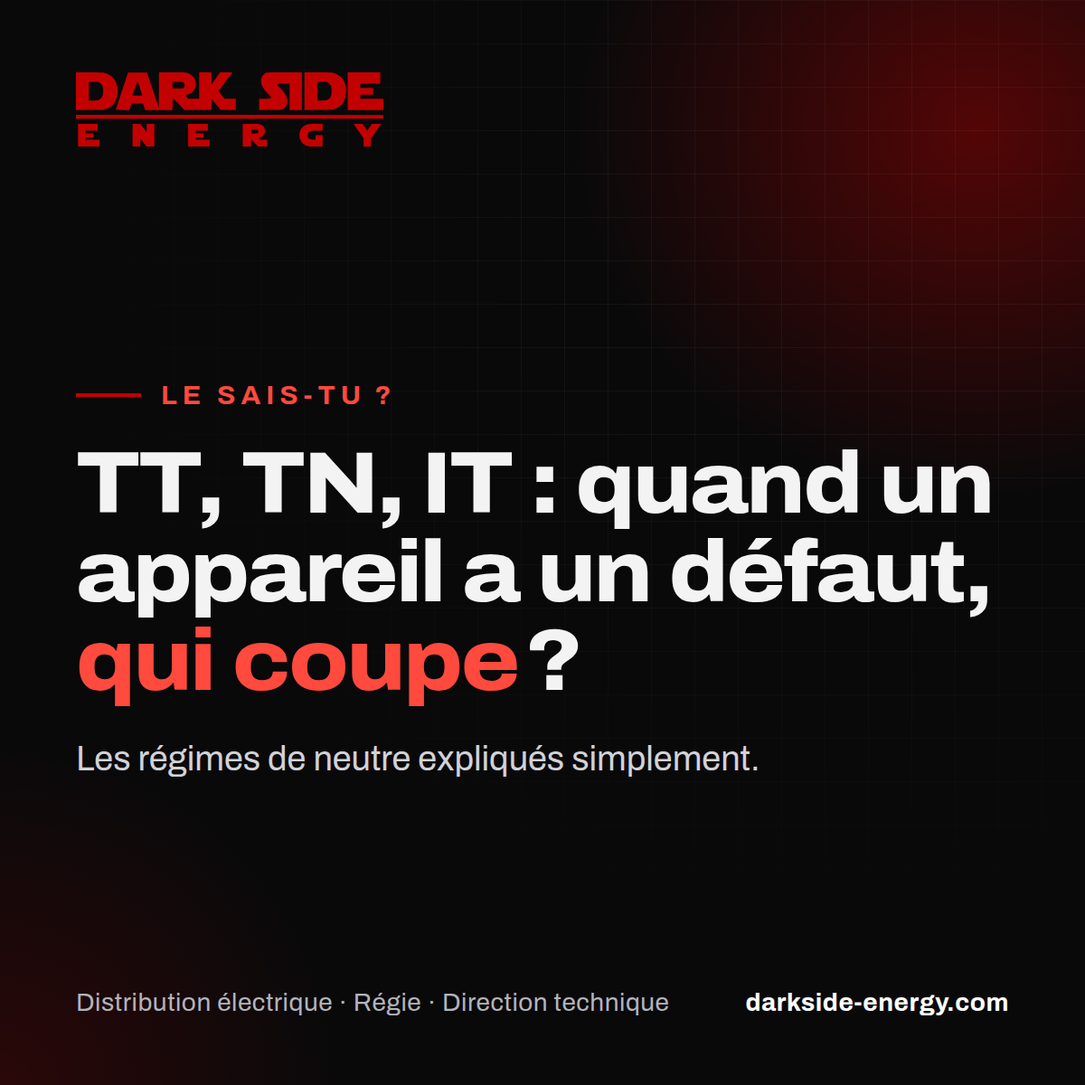
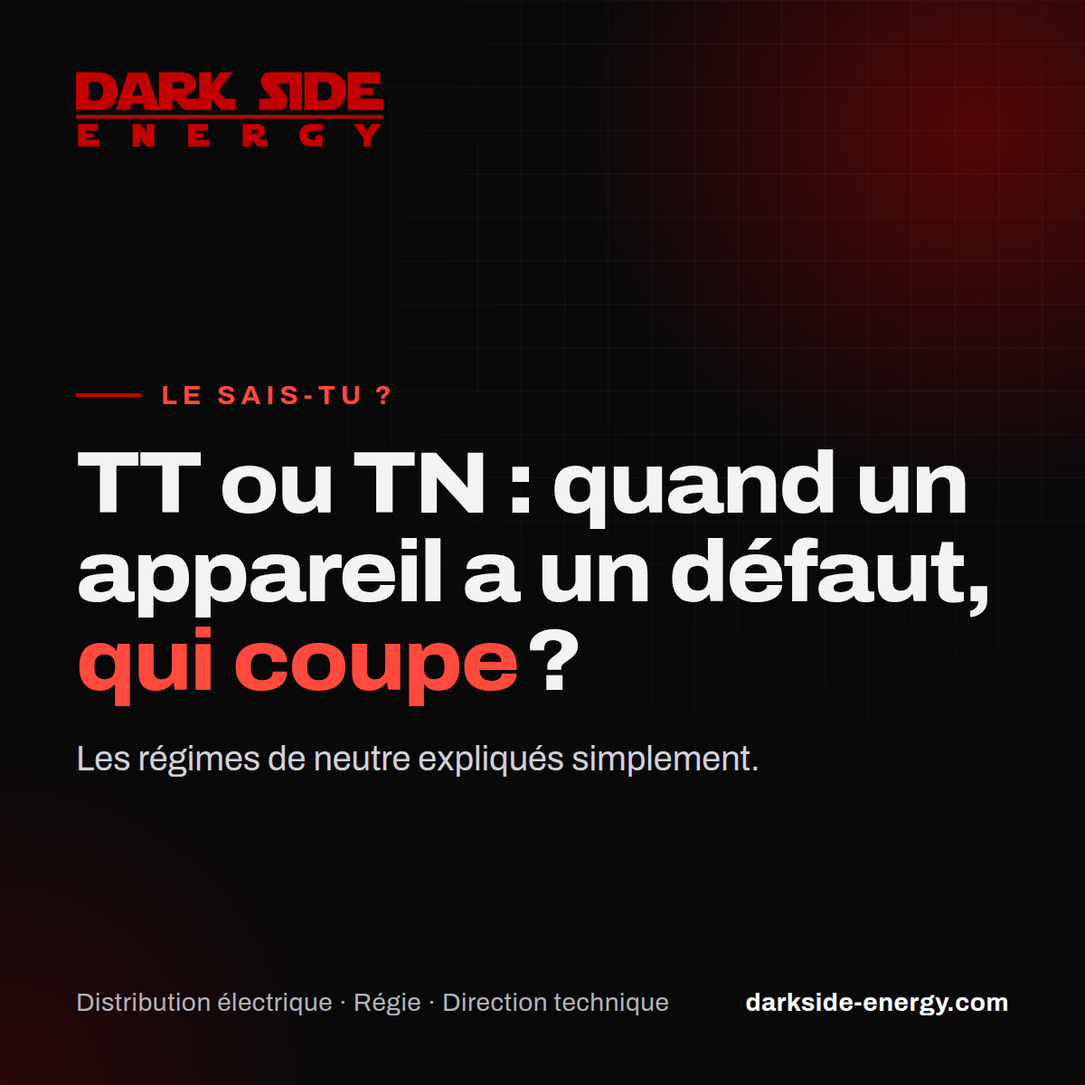
Article régimes de neutre : IT retiré, cas des ERP ajouté (vérifié par Pipo et Mario)
- IT retiré à la demande de Damien (schéma non employé en événementiel), remplacé par une
  phrase de mention ; titre « TT ou TN », visuel, tableau, citation, résumé et textes
  LinkedIn et Facebook mis à jour.
- Partie événement : grand lieu avec son propre transformateur, TN parfois TN-C sur les gros
  câbles, PEN séparé avant les tableaux protégés par différentiels ; salles d'exposition
  (ERP de type T, art. T 35 § 5 et T 36 § 4) : terre de chaque tableau de stand reliée au
  réseau de protection du bâtiment, piquets individuels interdits ; nouvelle source
  (transformateur à enroulements séparés ou groupe) pour changer de schéma.
- « Souvent en TN-C » non repris : aucune source ne l'étaye.
- Valeurs vérifiées complétées.

Claude-Session: https://claude.ai/code/session_01KYAdwUkupg8RtwwquDNbke

Changed region(s): [[0.185, 0.4008, 0.925, 0.4933]]

diff --git a/editorial/a-paraitre/2026-10-20-regimes-de-neutre/fr.html b/editorial/a-paraitre/2026-10-20-regimes-de-neutre/fr.html
@@ -4,8 +4,8 @@
 <!--page
 {
   "path": "news/regimes-de-neutre/",
-  "title": "TT, TN, IT : les régimes de neutre expliqués simplement",
-  "description": "Que se passe-t-il quand un appareil a un défaut, et qui coupe ? Les régimes de neutre TT, TN et IT expliqués simplement, avec des schémas animés.",
+  "title": "TT ou TN : les régimes de neutre expliqués simplement",
+  "description": "Que se passe-t-il quand un appareil a un défaut, et qui coupe ? Les régimes de neutre TT et TN expliqués simplement, avec des schémas animés, et ce qui change sur un événement.",
   "nav": "news",
   "type": "article",
   "article": {
@@ -20,7 +20,7 @@
       "news/"
     ],
     [
-      "TT, TN, IT : les régimes de neutre expliqués simplement"
+      "TT ou TN : les régimes de neutre expliqués simplement"
     ]
   ],
   "updated": "2026-10-20"
@@ -40,7 +40,7 @@
       <!-- breadcrumb:start -->
 <!-- breadcrumb:end -->
       <p class="eyebrow">Le sais-tu ?</p>
-      <h1>TT, TN, IT : les régimes de neutre expliqués simplement</h1>
+      <h1>TT ou TN : les régimes de neutre expliqués simplement</h1>
       <p class="post-meta"><time datetime="2026-10-20">20 octobre 2026</time><span>4 min de lecture</span></p>
     </div>
   </section>
@@ -51,7 +51,7 @@
         <p class="eyebrow">À retenir</p>
         <ul class="check-list">
           <li>Le régime de neutre dit comment le neutre de la source et les masses des appareils sont reliés à la terre.</li>
-          <li>Il décide de ce qui coupe en cas de défaut d'isolement : le différentiel en TT ; le disjoncteur ou le fusible en TN, si le courant de défaut est assez fort ; en IT, en principe rien au premier défaut, une alarme prévient.</li>
+          <li>Il décide de ce qui coupe en cas de défaut d'isolement : le différentiel en TT ; le disjoncteur ou le fusible en TN, si le courant de défaut est assez fort.</li>
           <li>Sur une installation temporaire, les différentiels 30 mA sont obligatoires quel que soit le schéma, et le neutre (N) reste séparé du conducteur de protection (PE) : pas de PEN dans les câbles souples.</li>
         </ul>
       </aside>
@@ -63,6 +63,7 @@
 <li><strong>La première</strong> concerne le neutre de la source, transformateur ou groupe électrogène : <strong>T</strong>, relié directement à la terre ; <strong>I</strong>, isolé de la terre ou relié par une impédance élevée.</li>
 <li><strong>La seconde</strong> concerne les masses des appareils : <strong>T</strong>, reliées à une <a href="../../lexique/#prise-de-terre">prise de terre</a> ; <strong>N</strong>, reliées au neutre de la source par le conducteur de protection (PE), le conducteur vert et jaune.</li>
 </ul>
+<p>Un troisième schéma, l'IT, à neutre isolé, sert là où une coupure serait grave, comme dans les blocs opératoires ; nous ne l'employons pas en événementiel.</p>
 <h2>TT : la terre ramène le courant, le différentiel coupe</h2>
 <figure class="slt">
 <svg class="sld" viewBox="0 0 400 250" role="img" aria-labelledby="slt-tt-t slt-tt-d">
@@ -134,63 +135,22 @@
 <li><strong>TN-S</strong> : neutre et conducteur de protection séparés.</li>
 <li><strong>TN-C</strong> : confondus en un seul conducteur, le PEN, admis seulement en installation fixe, à partir de 10 mm² en cuivre (16 mm² en aluminium), interdit dans les locaux à risque d'incendie ou d'explosion, et incompatible avec un différentiel.</li>
 </ul>
-<h2>IT : au premier défaut, en principe, rien ne coupe</h2>
-<figure class="slt">
-<svg class="sld" viewBox="0 0 400 250" role="img" aria-labelledby="slt-it-t slt-it-d">
-<title id="slt-it-t">Schéma IT</title>
-<desc id="slt-it-d">Un défaut relie la phase à la masse de l'appareil. Le neutre de la source n'est pas relié directement à la terre : le faible courant de défaut revient par les capacités du réseau par rapport à la terre (C). Le contrôleur permanent d'isolement, branché entre le réseau et la terre, détecte le défaut et donne l'alarme. En principe, l'installation reste en service.</desc>
-<text class="name" x="14" y="24">IT</text>
-<rect class="node node--hot" x="12" y="40" width="88" height="86" rx="4"/>
-<text class="lbl" x="56" y="78" text-anchor="middle">SOURCE</text>
-<text class="lbl lbl--sm" x="56" y="94" text-anchor="middle">transfo</text>
-<text class="lbl lbl--sm" x="56" y="106" text-anchor="middle">ou groupe</text>
-<path class="wire" d="M100 56 H356 M100 110 H330 M330 56 V72 M330 94 V110"/>
-<text class="lbl lbl--sm" x="108" y="50">PHASE</text>
-<text class="lbl lbl--sm" x="230" y="104">NEUTRE</text>
-<rect class="node" x="290" y="40" width="90" height="86" rx="4"/>
-<text class="lbl lbl--sm" x="335" y="34" text-anchor="middle">APPAREIL</text>
-<rect class="sym" x="322" y="72" width="16" height="22" rx="2"/>
-<text class="lbl lbl--sm" x="335" y="119" text-anchor="middle">masse</text>
-<path class="spark" d="M356 56 L364 64 L358 67 L370 75 L380 80"/>
-<rect class="node" x="182" y="44" width="40" height="78" rx="4"/>
-<text class="lbl" x="202" y="88" text-anchor="middle">DISJ.</text>
-<text class="lbl lbl--sm" x="202" y="142" text-anchor="middle">EN SERVICE</text>
-<path class="wire" d="M120 110 V144 M120 168 V180 M160 110 V152 M160 160 V214"/>
-<circle class="joint" cx="120" cy="110" r="2.6"/>
-<circle class="joint" cx="160" cy="110" r="2.6"/>
-<rect class="alarm" x="102" y="144" width="36" height="24" rx="3"/>
-<text class="lbl lbl--sm" x="120" y="160" text-anchor="middle">CPI</text>
-<text class="lbl lbl--sm lbl--alarm" x="96" y="160" text-anchor="end">ALARME</text>
-<path class="earth" d="M108 180 H132 M112 186 H128 M116 192 H124"/>
-<path class="sym" d="M152 152 H168 M152 160 H168"/>
-<text class="lbl lbl--sm" x="172" y="160">C</text>
-<path class="pe" d="M365 126 V180"/><path class="pe pe--stripe" d="M365 126 V180"/><text class="lbl lbl--sm" x="371" y="154">PE</text>
-<path class="earth" d="M353 180 H377 M357 186 H373 M361 192 H369"/>
-<path class="ground" d="M120 192 V214 H365 V192"/>
-<text class="lbl lbl--sm" x="357" y="174" text-anchor="end">prise de terre</text>
-<text class="lbl lbl--sm" x="262" y="232" text-anchor="middle">TERRE</text>
-<path class="current current--weak" pathLength="100" d="M100 56 H356 L380 80 V126 H365 V214 H160 V110 H100"/>
-</svg>
-<figcaption><strong>IT</strong> : le neutre n'est pas relié directement à la terre. Au premier défaut, le faible courant revient par les capacités du réseau par rapport à la terre (C). Le contrôleur permanent d'isolement détecte le défaut et donne l'alarme ; en principe, l'installation reste en service.</figcaption>
-</figure>
-<p>Le neutre est isolé de la terre, ou relié par une impédance élevée. Au premier défaut, le courant ne revient que par l'isolement et les capacités du réseau, et par cette éventuelle impédance : il reste faible et, si le réseau respecte les conditions prévues à la conception, n'impose pas de coupure. Plus le réseau est étendu, plus ce courant augmente.</p>
-<p>Un contrôleur permanent d'isolement (CPI) donne l'alarme : le défaut doit être trouvé et éliminé vite, car un second défaut sur un autre conducteur actif impose la coupure. L'IT sert là où une coupure serait grave : blocs opératoires, industries à fabrication continue.</p>
 <h2>En résumé : qui coupe ?</h2>
 <div class="table-wrap">
 <table class="table">
-<thead><tr><th scope="col">Schéma</th><th scope="col">Neutre de la source</th><th scope="col">Masses</th><th scope="col">Au premier défaut d'isolement</th></tr></thead>
+<thead><tr><th scope="col">Schéma</th><th scope="col">Neutre de la source</th><th scope="col">Masses</th><th scope="col">En cas de défaut d'isolement</th></tr></thead>
 <tbody>
 <tr><th scope="row">TT</th><td>Relié à la terre</td><td>Reliées à une prise de terre</td><td>Le différentiel coupe</td></tr>
 <tr><th scope="row">TN</th><td>Relié à la terre</td><td>Reliées au neutre</td><td>Le disjoncteur ou le fusible coupe, si le courant de défaut est assez fort</td></tr>
-<tr><th scope="row">IT</th><td>Isolé ou relié par une impédance élevée</td><td>Reliées à une prise de terre</td><td>En principe pas de coupure, le CPI donne l'alarme</td></tr>
 </tbody>
 </table>
 </div>
 <h2>Et sur un événement ?</h2>
 <p>Une installation d'événement est temporaire : selon l'INRS, les différentiels 30 mA y sont obligatoires, comme sur toutes les prises jusqu'à 32 A, quel que soit le schéma.</p>
-<p>Sur le réseau d'un lieu, l'événement s'insère en principe dans le schéma qui l'alimente : en général du TT si le lieu est raccordé au réseau public basse tension. Sur <a href="../../lexique/#groupe-electrogene">groupe électrogène</a>, il a sa propre source : schéma, mise à la terre et protections se choisissent à l'étude et se vérifient sur place. Un groupe fournit bien moins de courant de court-circuit qu'un transformateur : en TN, la coupure par disjoncteur se vérifie avec soin, sinon des différentiels prennent le relais.</p>
-<p>Enfin, les câbles souples ne peuvent pas servir de PEN : neutre (N) et conducteur de protection (PE) y restent séparés. Quand le schéma prévoit une liaison entre neutre et terre, elle est unique, à la source ou à l'origine de l'installation, et jamais dans les armoires et coffrets en aval, sauf nouvelle source comme un transformateur.</p>
-<blockquote>TT, TN, IT : demandez-vous qui coupe. Le différentiel, le disjoncteur ou le fusible, ou, au premier défaut en IT, en principe personne : c'est l'alarme qui prévient.</blockquote>
+<p>Sur le réseau d'un lieu, l'événement s'insère en principe dans le schéma qui l'alimente : en général du TT si le lieu est raccordé au réseau public basse tension. Un grand lieu équipé de son propre transformateur peut être en TN, parfois en TN-C sur les gros câbles : le PEN est alors séparé en neutre et PE avant les tableaux de l'événement, protégés par différentiels. Dans les salles d'exposition, le règlement de sécurité impose de relier la terre de chaque tableau de stand au réseau de protection du bâtiment, et interdit les piquets de terre individuels.</p>
+<p>Pour changer de schéma, il faut une nouvelle source : un transformateur à enroulements séparés, ou un <a href="../../lexique/#groupe-electrogene">groupe électrogène</a>. Sur groupe, schéma, mise à la terre et protections se choisissent à l'étude et se vérifient sur place. Un groupe fournit bien moins de courant de court-circuit qu'un transformateur : en TN, la coupure par disjoncteur se vérifie avec soin, sinon des différentiels prennent le relais.</p>
+<p>Enfin, les câbles souples ne peuvent pas servir de PEN : neutre (N) et conducteur de protection (PE) y restent séparés. Quand le schéma prévoit une liaison entre neutre et terre, elle est unique, à la source ou à l'origine de l'installation, jamais dans les armoires et coffrets en aval.</p>
+<blockquote>TT ou TN : demandez-vous qui coupe. En TT, le différentiel ; en TN, le disjoncteur ou le fusible, à condition que le courant de défaut soit assez fort.</blockquote>
       </article>
       <div class="note note--info" style="margin-top:40px">
         <svg data-icon="shield-check"></svg>

diff --git a/editorial/a-paraitre/2026-10-20-regimes-de-neutre/en.html b/editorial/a-paraitre/2026-10-20-regimes-de-neutre/en.html
@@ -4,8 +4,8 @@
 <!--page
 {
   "path": "en/did-you-know/earthing-systems/",
-  "title": "TT, TN, IT: earthing systems made simple",
-  "description": "What happens when an appliance develops a fault, and what trips? TT, TN and IT earthing systems made simple, with animated diagrams.",
+  "title": "TT or TN: earthing systems made simple",
+  "description": "What happens when an appliance develops a fault, and what disconnects the supply? TT and TN earthing systems made simple, with animated diagrams, and what changes at an event.",
   "nav": "news",
   "type": "article",
   "article": {
@@ -20,7 +20,7 @@
       "did-you-know/"
     ],
     [
-      "TT, TN, IT: earthing systems made simple"
+      "TT or TN: earthing systems made simple"
     ]
   ],
   "updated": "2026-10-20",
@@ -42,7 +42,7 @@
       <!-- breadcrumb:start -->
 <!-- breadcrumb:end -->
       <p class="eyebrow">Did you know?</p>
-      <h1>TT, TN, IT: earthing systems made simple</h1>
+      <h1>TT or TN: earthing systems made simple</h1>
       <p class="post-meta"><time datetime="2026-10-20">20 October 2026</time><span>4 min read</span></p>
     </div>
   </section>
@@ -53,7 +53,7 @@
         <p class="eyebrow">Key points</p>
         <ul class="check-list">
           <li>The earthing system describes how the source neutral and the metal casings of appliances are connected to earth.</li>
-          <li>It decides what disconnects the supply when an insulation fault occurs: the RCD in TT; the circuit breaker or fuse in TN, provided the fault current is high enough; in IT, in principle nothing on the first fault, and an alarm warns you.</li>
+          <li>It decides what disconnects the supply when an insulation fault occurs: the RCD in TT; the circuit breaker or fuse in TN, provided the fault current is high enough.</li>
           <li>In a temporary installation, 30 mA RCDs are mandatory in France whatever the earthing system, and the neutral (N) stays separate from the protective conductor (PE): no PEN in flexible cables.</li>
         </ul>
       </aside>
@@ -65,6 +65,7 @@
 <li><strong>The first</strong> concerns the neutral of the source, a transformer or a generator: <strong>T</strong>, connected directly to earth; <strong>I</strong>, isolated from earth or connected through a high impedance.</li>
 <li><strong>The second</strong> concerns the metal casings of appliances: <strong>T</strong>, connected to an <a href="../../glossary/#prise-de-terre">earth electrode</a>; <strong>N</strong>, connected to the source neutral by the protective conductor (PE), the green and yellow conductor.</li>
 </ul>
+<p>A third system, IT, with an isolated neutral, is used where an interruption would be serious, such as operating theatres; we do not use it at events.</p>
 <h2>TT: the earth carries the current back, the RCD trips</h2>
 <figure class="slt">
 <svg class="sld" viewBox="0 0 400 250" role="img" aria-labelledby="slt-tt-t slt-tt-d">
@@ -136,63 +137,22 @@
 <li><strong>TN-S</strong>: neutral and protective conductor separate.</li>
 <li><strong>TN-C</strong>: combined in a single conductor, the PEN, only allowed in fixed installations, from 10 mm² in copper (16 mm² in aluminium), forbidden in locations with a fire or explosion risk, and incompatible with an RCD.</li>
 </ul>
-<h2>IT: on the first fault, in principle, nothing trips</h2>
-<figure class="slt">
-<svg class="sld" viewBox="0 0 400 250" role="img" aria-labelledby="slt-it-t slt-it-d">
-<title id="slt-it-t">IT system</title>
-<desc id="slt-it-d">A fault connects the line conductor to the appliance's metal casing. The source neutral is not directly earthed: the small fault current returns through the network's capacitance to earth (C). The insulation monitoring device, connected between the system and earth, detects the fault and raises an alarm. In principle, the installation stays in service.</desc>
-<text class="name" x="14" y="24">IT</text>
-<rect class="node node--hot" x="12" y="40" width="88" height="86" rx="4"/>
-<text class="lbl" x="56" y="78" text-anchor="middle">SOURCE</text>
-<text class="lbl lbl--sm" x="56" y="94" text-anchor="middle" textLength="76" lengthAdjust="spacingAndGlyphs">transformer</text>
-<text class="lbl lbl--sm" x="56" y="106" text-anchor="middle">or genset</text>
-<path class="wire" d="M100 56 H356 M100 110 H330 M330 56 V72 M330 94 V110"/>
-<text class="lbl lbl--sm" x="108" y="50">LINE</text>
-<text class="lbl lbl--sm" x="230" y="104">NEUTRAL</text>
-<rect class="node" x="290" y="40" width="90" height="86" rx="4"/>
-<text class="lbl lbl--sm" x="335" y="34" text-anchor="middle">APPLIANCE</text>
-<rect class="sym" x="322" y="72" width="16" height="22" rx="2"/>
-<text class="lbl lbl--sm" x="335" y="119" text-anchor="middle">casing</text>
-<path class="spark" d="M356 56 L364 64 L358 67 L370 75 L380 80"/>
-<rect class="node" x="182" y="44" width="40" height="78" rx="4"/>
-<text class="lbl" x="202" y="88" text-anchor="middle">MCB</text>
-<text class="lbl lbl--sm" x="202" y="142" text-anchor="middle">STILL ON</text>
-<path class="wire" d="M120 110 V144 M120 168 V180 M160 110 V152 M160 160 V214"/>
-<circle class="joint" cx="120" cy="110" r="2.6"/>
-<circle class="joint" cx="160" cy="110" r="2.6"/>
-<rect class="alarm" x="102" y="144" width="36" height="24" rx="3"/>
-<text class="lbl lbl--sm" x="120" y="160" text-anchor="middle">IMD</text>
-<text class="lbl lbl--sm lbl--alarm" x="96" y="160" text-anchor="end">ALARM</text>
-<path class="earth" d="M108 180 H132 M112 186 H128 M116 192 H124"/>
-<path class="sym" d="M152 152 H168 M152 160 H168"/>
-<text class="lbl lbl--sm" x="172" y="160">C</text>
-<path class="pe" d="M365 126 V180"/><path class="pe pe--stripe" d="M365 126 V180"/><text class="lbl lbl--sm" x="371" y="154">PE</text>
-<path class="earth" d="M353 180 H377 M357 186 H373 M361 192 H369"/>
-<path class="ground" d="M120 192 V214 H365 V192"/>
-<text class="lbl lbl--sm" x="357" y="174" text-anchor="end">earth electrode</text>
-<text class="lbl lbl--sm" x="262" y="232" text-anchor="middle">EARTH</text>
-<path class="current current--weak" pathLength="100" d="M100 56 H356 L380 80 V126 H365 V214 H160 V110 H100"/>
-</svg>
-<figcaption><strong>IT</strong>: the source neutral is not directly earthed. On the first fault, the small current returns through the network's capacitance to earth (C). The insulation monitoring device detects the fault and raises an alarm; in principle, the installation stays in service.</figcaption>
-</figure>
-<p>The neutral is isolated from earth, or connected through a high impedance. On the first fault, the current can only return through the insulation and capacitance of the network, and through that possible impedance: it stays small and, if the network meets the conditions set at the design stage, does not require disconnection. The larger the network, the higher this current.</p>
-<p>An insulation monitoring device (IMD) raises an alarm: the fault must be found and cleared quickly, as a second fault on another live conductor requires disconnection. IT is used where an interruption would be serious: hospital operating theatres, continuous-process industries.</p>
 <h2>In short: what disconnects?</h2>
 <div class="table-wrap">
 <table class="table">
-<thead><tr><th scope="col">System</th><th scope="col">Source neutral</th><th scope="col">Metal casings</th><th scope="col">On the first insulation fault</th></tr></thead>
+<thead><tr><th scope="col">System</th><th scope="col">Source neutral</th><th scope="col">Metal casings</th><th scope="col">On an insulation fault</th></tr></thead>
 <tbody>
 <tr><th scope="row">TT</th><td>Earthed</td><td>Connected to an earth electrode</td><td>The RCD trips</td></tr>
 <tr><th scope="row">TN</th><td>Earthed</td><td>Connected to the neutral</td><td>The circuit breaker or fuse disconnects, provided the fault current is high enough</td></tr>
-<tr><th scope="row">IT</th><td>Isolated or connected through a high impedance</td><td>Connected to an earth electrode</td><td>In principle no disconnection, the IMD raises an alarm</td></tr>
 </tbody>
 </table>
 </div>
 <h2>And at an event?</h2>
 <p>An event installation is temporary: according to the French national safety institute (INRS), 30 mA RCDs are mandatory there, as on all socket-outlets up to 32 A, whatever the earthing system.</p>
-<p>On a venue supply, the event in principle fits into the earthing system that supplies it: usually TT in France if the venue is connected to the public low-voltage network. Local rules differ: in the UK, for example, BS 7671 restricts the use of a PME (TN-C-S) earth for temporary installations. On a <a href="../../glossary/#groupe-electrogene">generator</a>, the event has its own source: earthing system, earthing arrangements and protective devices are chosen at the design stage and verified on site. A generator delivers far less short-circuit current than a transformer: in TN, disconnection by circuit breaker must be checked carefully, otherwise RCDs take over.</p>
-<p>Finally, flexible cables cannot be used as a PEN: neutral (N) and protective conductor (PE) stay separate. Where the earthing system includes a neutral-earth link, there is only one, at the source or at the origin of the installation, never in downstream boards and boxes, unless they form a new source such as a transformer.</p>
-<blockquote>TT, TN, IT: ask yourself what disconnects. The RCD, the circuit breaker or fuse, or, on the first fault in IT, in principle nothing: an alarm warns you.</blockquote>
+<p>On a venue supply, the event in principle fits into the earthing system that supplies it: usually TT in France if the venue is connected to the public low-voltage network. A large venue with its own transformer may be TN, sometimes TN-C on the large cables: the PEN is then split into neutral and PE before the event's distribution boards, which are protected by RCDs. In French exhibition halls, the fire safety regulations require the earth terminal of each stand board to be connected to the building's protective network, and forbid individual earth rods. Local rules differ: in the UK, for example, BS 7671 restricts the use of a PME (TN-C-S) earth for temporary installations.</p>
+<p>Changing the earthing system requires a new source: a transformer with separate windings, or a <a href="../../glossary/#groupe-electrogene">generator</a>. On a generator, earthing system, earthing arrangements and protective devices are chosen at the design stage and verified on site. A generator delivers far less short-circuit current than a transformer: in TN, disconnection by circuit breaker must be checked carefully, otherwise RCDs take over.</p>
+<p>Finally, flexible cables cannot be used as a PEN: neutral (N) and protective conductor (PE) stay separate. Where the earthing system includes a neutral-earth link, there is only one, at the source or at the origin of the installation, never in downstream boards and boxes.</p>
+<blockquote>TT or TN: ask yourself what disconnects. In TT, the RCD; in TN, the circuit breaker or fuse, provided the fault current is high enough.</blockquote>
       </article>
       <div class="note note--info" style="margin-top:40px">
         <svg data-icon="shield-check"></svg>

diff --git a/editorial/semaines/2026-10-19/publications.md b/editorial/semaines/2026-10-19/publications.md
@@ -10,8 +10,11 @@ Sources techniques et institutionnelles accessibles. Le texte intégral des norm
 - TT : courant limité par les résistances de terre, très inférieur aux réglages des protections à maximum de courant, d'où au moins un DDR en tête ; tension de défaut dangereuse : CT 172, p. 10-11. Réseau public BT en TT : Enedis-NMO-RES_011E (03/12/2024), p. 20.
 - TN : défaut franc = court-circuit, coupure dans un temps maximal spécifié si le courant de défaut dépasse le seuil de la protection, vérification par le calcul : CT 172, p. 10 ; vérification par mesures (impédance de boucle) : INRS ED 6187, p. 97. DDR inapplicable en TN-C : CT 172, p. 15 et 20 (et ESTI, norme suisse, document 14_F_Amo131).
 - PEN : installations fixes seulement, à partir de 10 mm² Cu ou 16 mm² Al : IEC 60364-5-54, 543.4.1, cité par extrait (texte non lu ; CT 172 p. 8 écrit « ≤ 10 mm² », divergence au cas limite). Interdit dans les câbles souples alimentant des appareils amovibles : INRS ED 6187, annexe III de la circulaire DGT/2012/12, p. 117. Interdit en BE2 et BE3 : même annexe, p. 119-120 ; CT 172, p. 15.
-- IT : courant de premier défaut par les capacités du réseau et l'impédance éventuelle du neutre, pas par le CPI : CT 178, p. 5 et 9 ; CT 172, p. 11 et 21-22. CPI obligatoire, défaut à rechercher, coupure au second défaut : CT 172, p. 12-13. Courant croissant avec l'étendue du réseau : CT 172, p. 11 ; CT 178, p. 24. Usages : CT 178, p. 3 et 22.
+- IT : retiré de l'article à la demande de Damien (schéma non employé en événementiel) ; simple mention de son usage (blocs opératoires) : Schneider CT 178, p. 3 et 22.
 - Événement : DDR 30 mA obligatoires pour les prises jusqu'à 32 A et les installations temporaires : INRS ED 6345 (2019), p. 27. Groupe électrogène, courant de court-circuit plus faible, vérifier en TN et IT, sinon DDR : CT 172, p. 16. Plusieurs schémas possibles, choix libre avec un poste privé : CT 172, p. 25 ; CT 173, p. 11. Liaison neutre-terre en un seul point pour des groupes couplés : IET, webinaire « Temporary power distribution » (2021). Groupes portables et installations temporaires : IET Wiring Matters (2011) et IEE Wiring Matters (2006). Royaume-Uni, PME restreinte en installation temporaire (version anglaise) : IET, « Fairgrounds » (BS 7671, 740.411.4.1).
+- Grand lieu avec son propre poste : choix du schéma dans les limites des normes et du règlement ERP (CT 172, p. 3 et 25) ; TN-C possible seulement sur les gros câbles fixes, TN-S de plus en plus fréquent en France, pas de statistique d'emploi (CT 173, p. 11-12). Plusieurs schémas en série TN-C, TN-S, TT possibles (CT 172, p. 8 ; CT 173, p. 23) ; PEN séparé avant tout différentiel (ESTI, p. 2 ; CT 172, p. 20). « Souvent en TN-C » : non étayé, non repris.
+- Salles d'exposition (ERP de type T) : « La borne de terre de chaque tableau doit être reliée au réseau général de protection » (art. T 35 § 5) ; « L'utilisation de prises de terre individuelles de protection est interdite » (art. T 36 § 4). Arrêté du 18 novembre 1987 modifié (2001), lu dans sa reprise sitesecurite.com (Légifrance inaccessible). Une sous-distribution en TT avec piquet n'est donc pas admise pour les stands.
+- Nouvelle source pour changer de schéma : transformateur BT/BT à enroulements séparés ou groupe (CT 178, p. 25 ; CT 173, p. 20) ; pas d'autotransformateur (INRS ED 6345, p. 27).
 - Retirés : prescriptions OPPBTP (propres aux chantiers), délais de coupure chiffrés, règles particulières de la NF C 15-100 partie 7-711 (non lue), décret 88-1056 (abrogé depuis 2010).
 
 URL : CT 172 https://sti.eduscol.education.fr/sites/eduscol.education.fr.sti/files/ressources/techniques/3336/3336-ct172.pdf · CT 173 https://sti.eduscol.education.fr/sites/eduscol.education.fr.sti/files/ressources/techniques/3336/3336-ct173.pdf · CT 178 https://sti.eduscol.education.fr/sites/eduscol.education.fr.sti/files/ressources/techniques/3336/3336-ct178.pdf · INRS ED 6187 https://www.inrs.fr/dam/inrs/CataloguePapier/ED/TI-ED-6187.pdf · INRS ED 6345 https://www.inrs.fr/dam/inrs/CataloguePapier/ED/TI-ED-6345.pdf · Enedis https://www.enedis.fr/media/4383/download · ESTI https://www.esti.admin.ch/inhalte/pdf/Fachbeitraege/Franzoesisch/14_F_Amo131_0914.pdf · IET https://electrical.theiet.org/bs-7671/faqs/webinar-questions-and-answers/temporary-power-distribution-webinar · https://electrical.theiet.org/media/1550/operation-of-portable-generators.pdf · https://electrical.theiet.org/media/1677/temporary-power-distribution-systems-and-electrical-supplies-for-entertainment-related-purposes.pdf · https://electrical.theiet.org/media/1194/fairgrounds-what-you-need-to-know.pdf
@@ -25,13 +28,12 @@ URL : CT 172 https://sti.eduscol.education.fr/sites/eduscol.education.fr.sti/fil
 
 **LinkedIn**
 
-> TT, TN, IT : quand un appareil a un défaut d'isolement, qui coupe ?
+> TT ou TN : quand un appareil a un défaut d'isolement, qui coupe ?
 >
 > TT : le courant de défaut revient par la terre. C'est le différentiel qui coupe.
 > TN : le défaut devient un court-circuit. Le disjoncteur ou le fusible coupe dans le temps prescrit, si le courant de défaut est assez fort : cela se vérifie par le calcul.
-> IT : au premier défaut, l'alimentation est en principe maintenue. Le contrôleur permanent d'isolement donne l'alarme, et le défaut doit être réparé vite.
 >
-> Sur un événement, installation temporaire, les différentiels 30 mA sont obligatoires quel que soit le schéma, et le neutre reste séparé du conducteur de protection : pas de PEN dans les câbles souples.
+> Sur un événement, installation temporaire, les différentiels 30 mA sont obligatoires quel que soit le schéma, et le neutre reste séparé du conducteur de protection : pas de PEN dans les câbles souples. Et dans les salles d'exposition, pas de piquet de terre sous un stand : la terre de chaque tableau est reliée au réseau de protection du bâtiment.
 >
 > Schémas animés et explications dans notre « Le sais-tu ? » :
 > https://www.darkside-energy.com/news/regimes-de-neutre/
@@ -40,4 +42,4 @@ URL : CT 172 https://sti.eduscol.education.fr/sites/eduscol.education.fr.sti/fil
 
 **Facebook**
 
-> ⚡ TT, TN, IT : quand un appareil a un défaut, qui coupe ? Le différentiel en TT, le disjoncteur ou le fusible en TN… et en IT, en principe personne au premier défaut : une alarme prévient. Les régimes de neutre expliqués simplement, avec des schémas animés 👉 https://www.darkside-energy.com/news/regimes-de-neutre/
+> ⚡ TT ou TN : quand un appareil a un défaut, qui coupe ? Le différentiel en TT, le disjoncteur ou le fusible en TN… à condition que le courant de défaut soit assez fort. Les régimes de neutre expliqués simplement, avec des schémas animés 👉 https://www.darkside-energy.com/news/regimes-de-neutre/

diff --git a/editorial/calendrier.md b/editorial/calendrier.md
@@ -9,7 +9,7 @@ Articles déjà en ligne (à ne pas refaire) : distribution électrique événem
 
 | Jour | Format | Sujet | Statut |
 |---|---|---|---|
-| Mar 20/10 | Le sais-tu ? (site) | TT, TN, IT : les régimes de neutre expliqués simplement, avec schémas animés (sujet demandé par Damien) | rédigé |
+| Mar 20/10 | Le sais-tu ? (site) | TT ou TN : les régimes de neutre expliqués simplement, avec schémas animés et cas des ERP (sujet demandé par Damien, IT retiré) | rédigé |
 
 ## Semaine du 26 octobre 2026
 
